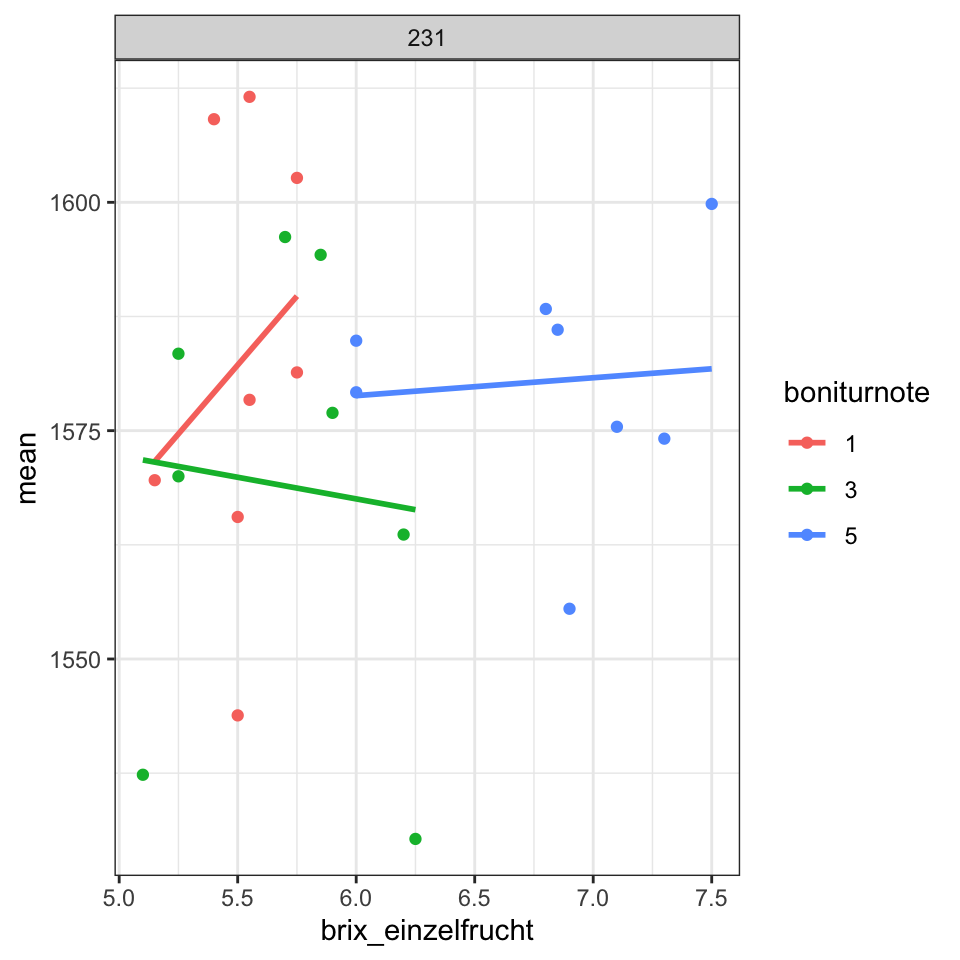
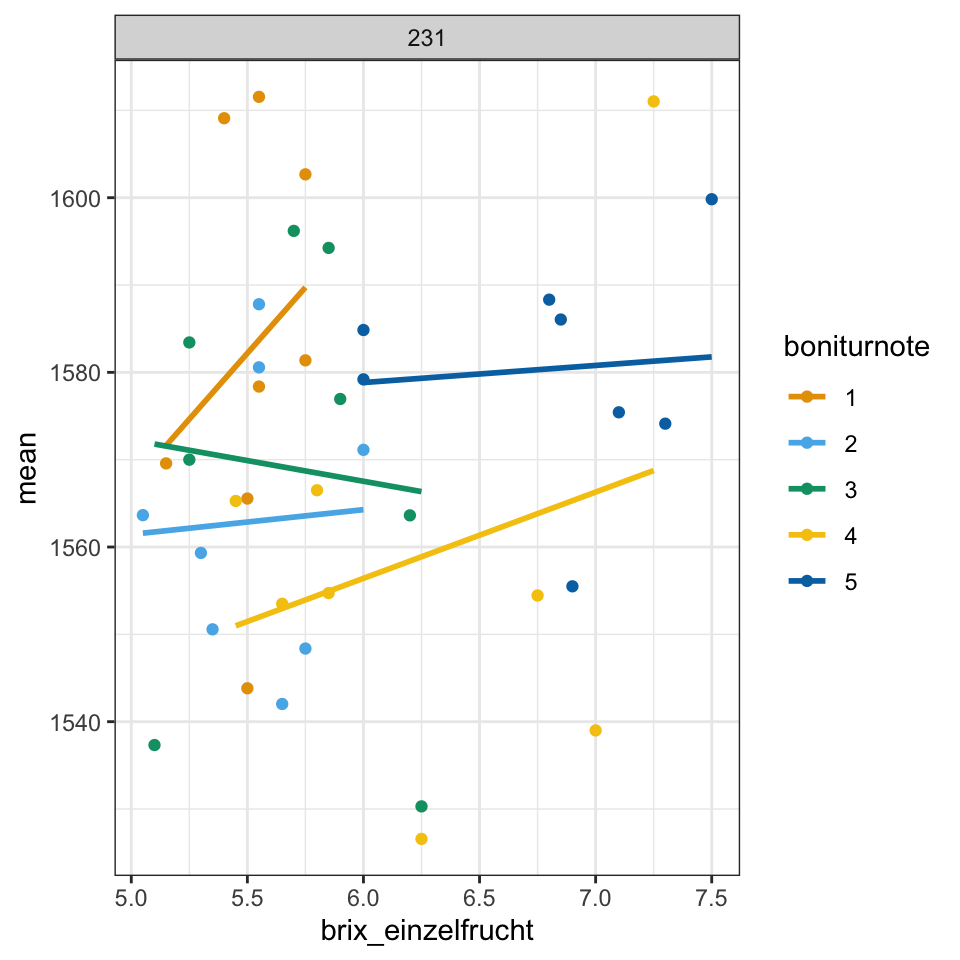
added text

diff --git a/docs/example-analysis-15.html b/docs/example-analysis-15.html
@@ -272,7 +272,7 @@ code span.wa { color: #60a0b0; font-weight: bold; font-style: italic; } /* Warni
 
 </header>
 
-<p><em>Version vom May 13, 2023 um 10:34:49</em></p>
+<p><em>Version vom May 13, 2023 um 10:59:44</em></p>
 <p>Wir wollen folgende R Pakete in diesem Kapitel nutzen.</p>
 <div class="cell">
 <div class="sourceCode cell-code" id="cb1"><pre class="sourceCode r code-with-copy"><code class="sourceCode r"><span id="cb1-1"><a href="#cb1-1" aria-hidden="true" tabindex="-1"></a>pacman<span class="sc">::</span><span class="fu">p_load</span>(tidyverse, readxl, parameters,</span>
@@ -327,7 +327,7 @@ code span.wa { color: #60a0b0; font-weight: bold; font-style: italic; } /* Warni
 <div class="sourceCode cell-code" id="cb6"><pre class="sourceCode r code-with-copy"><code class="sourceCode r"><span id="cb6-1"><a href="#cb6-1" aria-hidden="true" tabindex="-1"></a><span class="fu">ggplot</span>(berry_tbl, <span class="fu">aes</span>(wave, mean, <span class="at">color =</span> E)) <span class="sc">+</span></span>
 <span id="cb6-2"><a href="#cb6-2" aria-hidden="true" tabindex="-1"></a>  <span class="fu">theme_bw</span>() <span class="sc">+</span></span>
 <span id="cb6-3"><a href="#cb6-3" aria-hidden="true" tabindex="-1"></a>  <span class="fu">geom_line</span>() <span class="sc">+</span></span>
-<span id="cb6-4"><a href="#cb6-4" aria-hidden="true" tabindex="-1"></a>  <span class="fu">theme</span>(<span class="at">legend.position =</span> <span class="st">"none"</span>)</span></code><button title="In die Zwischenablage kopieren" class="code-copy-button"><i class="bi"></i></button></pre></div>
+<span id="cb6-4"><a href="#cb6-4" aria-hidden="true" tabindex="-1"></a>  <span class="fu">theme</span>(<span class="at">legend.position =</span> <span class="st">"none"</span>) </span></code><button title="In die Zwischenablage kopieren" class="code-copy-button"><i class="bi"></i></button></pre></div>
 <div class="cell-output-display">
 <div id="fig-app-strawberry-01" class="quarto-figure quarto-figure-center anchored">
 <figure class="figure">
@@ -348,7 +348,7 @@ code span.wa { color: #60a0b0; font-weight: bold; font-style: italic; } /* Warni
 <div class="cell">
 <div class="sourceCode cell-code" id="cb8"><pre class="sourceCode r code-with-copy"><code class="sourceCode r"><span id="cb8-1"><a href="#cb8-1" aria-hidden="true" tabindex="-1"></a>berry_sugar_tbl <span class="ot">&lt;-</span> <span class="fu">left_join</span>(berry_tbl, sugar_tbl,</span>
 <span id="cb8-2"><a href="#cb8-2" aria-hidden="true" tabindex="-1"></a>                             <span class="at">by =</span> <span class="fu">c</span>(<span class="st">"E"</span> <span class="ot">=</span> <span class="st">"E"</span>)) <span class="sc">%&gt;%</span> </span>
-<span id="cb8-3"><a href="#cb8-3" aria-hidden="true" tabindex="-1"></a>  <span class="fu">filter</span>(boniturnote <span class="sc">%in%</span> <span class="fu">c</span>(<span class="dv">1</span>, <span class="dv">3</span>, <span class="dv">5</span>)) <span class="sc">%&gt;%</span> </span>
+<span id="cb8-3"><a href="#cb8-3" aria-hidden="true" tabindex="-1"></a>  <span class="fu">filter</span>(boniturnote <span class="sc">%in%</span> <span class="fu">c</span>(<span class="dv">1</span>, <span class="dv">2</span>, <span class="dv">3</span>, <span class="dv">4</span>, <span class="dv">5</span>)) <span class="sc">%&gt;%</span> </span>
 <span id="cb8-4"><a href="#cb8-4" aria-hidden="true" tabindex="-1"></a>  <span class="fu">mutate</span>(<span class="at">boniturnote =</span> <span class="fu">as_factor</span>(boniturnote))</span></code><button title="In die Zwischenablage kopieren" class="code-copy-button"><i class="bi"></i></button></pre></div>
 </div>
 <div class="cell">
@@ -366,7 +366,8 @@ code span.wa { color: #60a0b0; font-weight: bold; font-style: italic; } /* Warni
 <span id="cb11-5"><a href="#cb11-5" aria-hidden="true" tabindex="-1"></a>  <span class="fu">theme_bw</span>() <span class="sc">+</span></span>
 <span id="cb11-6"><a href="#cb11-6" aria-hidden="true" tabindex="-1"></a>  <span class="fu">geom_point</span>() <span class="sc">+</span></span>
 <span id="cb11-7"><a href="#cb11-7" aria-hidden="true" tabindex="-1"></a>  <span class="fu">stat_smooth</span>(<span class="at">method =</span> <span class="st">"lm"</span>, <span class="at">se =</span> <span class="cn">FALSE</span>) <span class="sc">+</span></span>
-<span id="cb11-8"><a href="#cb11-8" aria-hidden="true" tabindex="-1"></a>  <span class="fu">facet_wrap</span>(<span class="sc">~</span> wave)</span></code><button title="In die Zwischenablage kopieren" class="code-copy-button"><i class="bi"></i></button></pre></div>
+<span id="cb11-8"><a href="#cb11-8" aria-hidden="true" tabindex="-1"></a>  <span class="fu">facet_wrap</span>(<span class="sc">~</span> wave) <span class="sc">+</span></span>
+<span id="cb11-9"><a href="#cb11-9" aria-hidden="true" tabindex="-1"></a>  <span class="fu">scale_color_okabeito</span>() </span></code><button title="In die Zwischenablage kopieren" class="code-copy-button"><i class="bi"></i></button></pre></div>
 <div class="cell-output-display">
 <div id="fig-app-strawberry-02" class="quarto-figure quarto-figure-center anchored">
 <figure class="figure">
@@ -383,7 +384,7 @@ code span.wa { color: #60a0b0; font-weight: bold; font-style: italic; } /* Warni
 <span id="cb12-4"><a href="#cb12-4" aria-hidden="true" tabindex="-1"></a>  <span class="fu">glance</span>() <span class="sc">%&gt;%</span> </span>
 <span id="cb12-5"><a href="#cb12-5" aria-hidden="true" tabindex="-1"></a>  <span class="fu">pull</span>(r.squared)</span></code><button title="In die Zwischenablage kopieren" class="code-copy-button"><i class="bi"></i></button></pre></div>
 <div class="cell-output cell-output-stdout">
-<pre><code>[1] 0.005423547</code></pre>
+<pre><code>[1] 0.01267805</code></pre>
 </div>
 </div>
 <div class="cell">
@@ -400,13 +401,13 @@ code span.wa { color: #60a0b0; font-weight: bold; font-style: italic; } /* Warni
 <div class="cell">
 <div class="sourceCode cell-code" id="cb15"><pre class="sourceCode r code-with-copy"><code class="sourceCode r"><span id="cb15-1"><a href="#cb15-1" aria-hidden="true" tabindex="-1"></a><span class="fu">which.max</span>(rsquare_vec)</span></code><button title="In die Zwischenablage kopieren" class="code-copy-button"><i class="bi"></i></button></pre></div>
 <div class="cell-output cell-output-stdout">
-<pre><code>236 
- 11 </code></pre>
+<pre><code>238 
+ 15 </code></pre>
 </div>
 <div class="sourceCode cell-code" id="cb17"><pre class="sourceCode r code-with-copy"><code class="sourceCode r"><span id="cb17-1"><a href="#cb17-1" aria-hidden="true" tabindex="-1"></a>rsquare_vec[<span class="dv">15</span>]</span></code><button title="In die Zwischenablage kopieren" class="code-copy-button"><i class="bi"></i></button></pre></div>
 <div class="cell-output cell-output-stdout">
 <pre><code>      238 
-0.6827055 </code></pre>
+0.6111646 </code></pre>
 </div>
 </div>
 <div class="cell" data-layout-align="center">
@@ -415,14 +416,14 @@ code span.wa { color: #60a0b0; font-weight: bold; font-style: italic; } /* Warni
 <span id="cb19-3"><a href="#cb19-3" aria-hidden="true" tabindex="-1"></a>  <span class="fu">ggplot</span>(<span class="fu">aes</span>(<span class="at">x =</span> mean, <span class="at">y =</span> brix_einzelfrucht,</span>
 <span id="cb19-4"><a href="#cb19-4" aria-hidden="true" tabindex="-1"></a>             <span class="at">color =</span> boniturnote)) <span class="sc">+</span></span>
 <span id="cb19-5"><a href="#cb19-5" aria-hidden="true" tabindex="-1"></a>  <span class="fu">theme_bw</span>() <span class="sc">+</span></span>
-<span id="cb19-6"><a href="#cb19-6" aria-hidden="true" tabindex="-1"></a>  <span class="fu">geom_point</span>() <span class="sc">+</span></span>
-<span id="cb19-7"><a href="#cb19-7" aria-hidden="true" tabindex="-1"></a>  <span class="fu">geom_text</span>(<span class="fu">aes</span>(<span class="at">label =</span> E)) <span class="sc">+</span></span>
-<span id="cb19-8"><a href="#cb19-8" aria-hidden="true" tabindex="-1"></a>  <span class="fu">stat_smooth</span>(<span class="at">method =</span> <span class="st">"lm"</span>, <span class="at">se =</span> <span class="cn">FALSE</span>) <span class="sc">+</span></span>
-<span id="cb19-9"><a href="#cb19-9" aria-hidden="true" tabindex="-1"></a>  <span class="fu">facet_wrap</span>(<span class="sc">~</span> wave)</span></code><button title="In die Zwischenablage kopieren" class="code-copy-button"><i class="bi"></i></button></pre></div>
+<span id="cb19-6"><a href="#cb19-6" aria-hidden="true" tabindex="-1"></a>  <span class="fu">geom_text</span>(<span class="fu">aes</span>(<span class="at">label =</span> E)) <span class="sc">+</span></span>
+<span id="cb19-7"><a href="#cb19-7" aria-hidden="true" tabindex="-1"></a>  <span class="fu">stat_smooth</span>(<span class="at">method =</span> <span class="st">"lm"</span>, <span class="at">se =</span> <span class="cn">FALSE</span>) <span class="sc">+</span></span>
+<span id="cb19-8"><a href="#cb19-8" aria-hidden="true" tabindex="-1"></a>  <span class="fu">facet_wrap</span>(<span class="sc">~</span> wave) <span class="sc">+</span></span>
+<span id="cb19-9"><a href="#cb19-9" aria-hidden="true" tabindex="-1"></a>  <span class="fu">scale_color_okabeito</span>() </span></code><button title="In die Zwischenablage kopieren" class="code-copy-button"><i class="bi"></i></button></pre></div>
 <div class="cell-output-display">
 <div id="fig-app-strawberry-03" class="quarto-figure quarto-figure-center anchored">
 <figure class="figure">
-<p><img src="example-analysis-15_files/figure-html/fig-app-strawberry-03-1.png" class="img-fluid figure-img" width="480"></p>
+<p><img src="example-analysis-15_files/figure-html/fig-app-strawberry-03-1.png" class="img-fluid figure-img" width="576"></p>
 <p></p><figcaption class="figure-caption">Abbildung&nbsp;15.4— Korrelation zwischen den beiden Jahren der Messung.</figcaption><p></p>
 </figure>
 </div>
